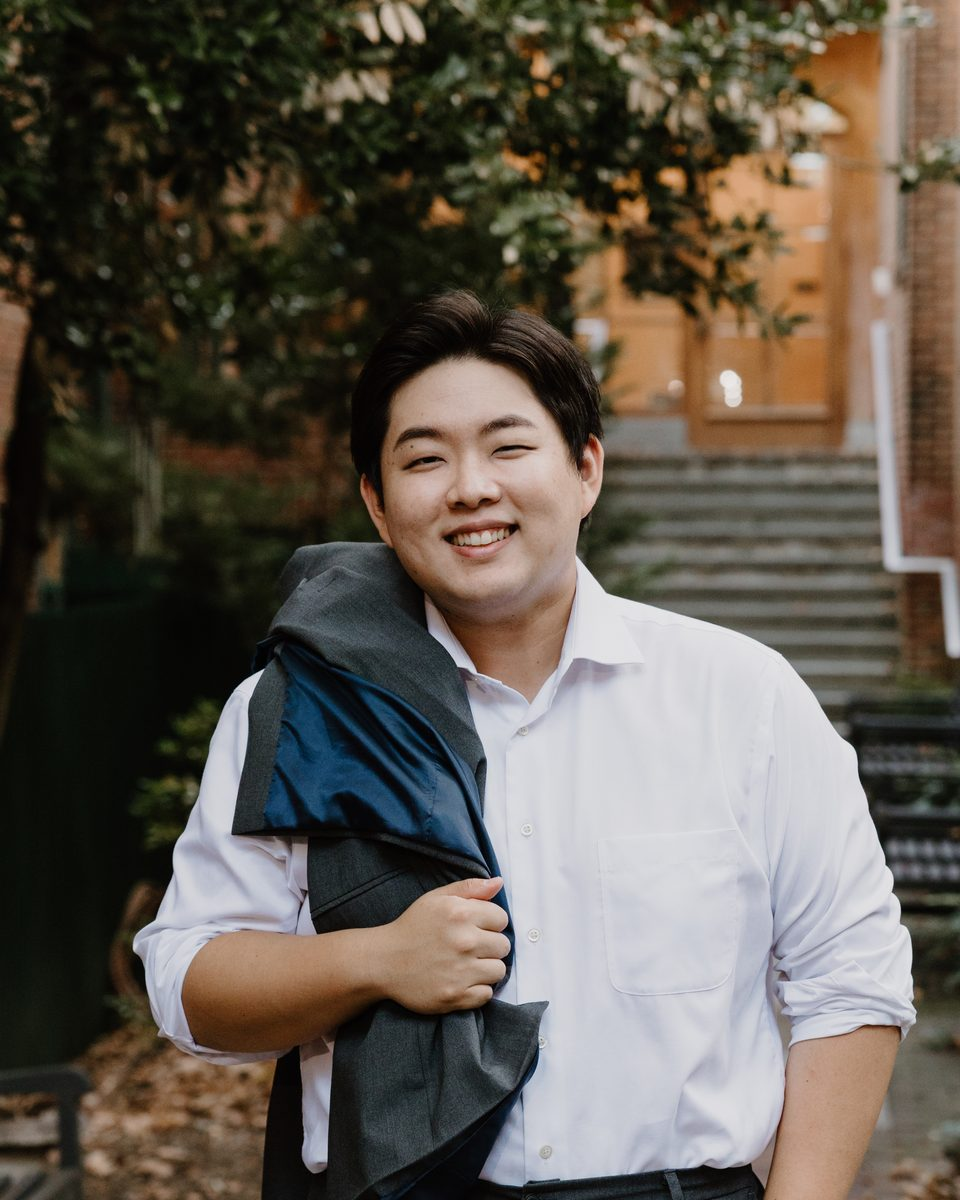
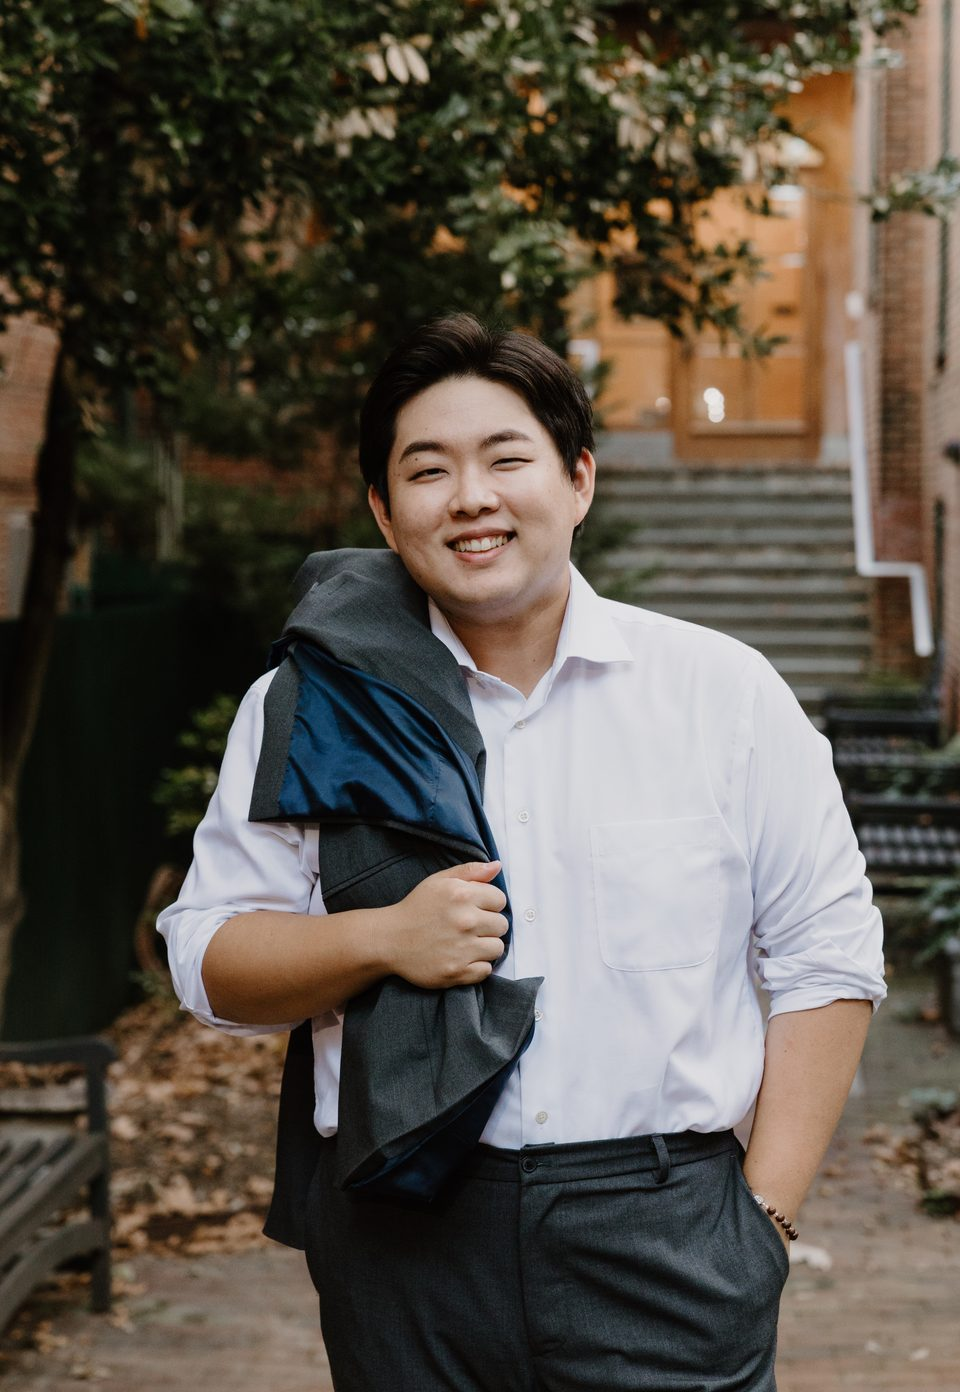
About: title on top, larger photo beside bio with matching height

diff --git a/css/style.css b/css/style.css
@@ -330,12 +330,13 @@ h3 { font-size: .72rem; font-weight: 500; letter-spacing: .25em; text-transform:
 .media-more[hidden] { display: none; }
 
 /* ── ABOUT: 프로필 사진 자동 넘김 + 글 ─────── */
-.about-wrap { max-width: 1040px; display: grid; grid-template-columns: minmax(0, 5fr) minmax(0, 7fr); gap: 0 64px; }
+.about-wrap { max-width: 1000px; display: grid; grid-template-columns: minmax(0, 1fr) minmax(0, 1fr); gap: 0 56px; }
+.about-title { grid-column: 1 / -1; }
 .about-text .bio p:last-child { margin-bottom: 0; }
-.about-text h2 { margin-bottom: 40px; }
 .about-wrap .training { grid-column: 1 / -1; }
-.about-slides { position: relative; align-self: start; aspect-ratio: 4 / 5; overflow: hidden; background: var(--gray-1); }
-.about-slides img { position: absolute; inset: 0; width: 100%; height: 100%; object-fit: cover; opacity: 0; transform: scale(1.06);
+/* 데스크톱: 사진 높이 = 글 높이 */
+.about-slides { position: relative; min-height: 520px; overflow: hidden; background: var(--gray-1); }
+.about-slides img { position: absolute; inset: 0; width: 100%; height: 100%; object-fit: cover; object-position: 50% 30%; opacity: 0; transform: scale(1.06);
   transition: opacity 1.6s ease, transform 7s ease-out; }
 .about-slides img.on { opacity: 1; transform: scale(1); }
 .about-dots { position: absolute; left: 0; right: 0; bottom: 14px; display: flex; justify-content: center; gap: 6px; z-index: 1; }
@@ -343,8 +344,8 @@ h3 { font-size: .72rem; font-weight: 500; letter-spacing: .25em; text-transform:
 .about-dots button.on { width: 28px; background: #fff; }
 .about-dots button::before { content: ""; display: block; height: 16px; margin-top: -7px; }  /* 누르기 쉽게 */
 @media (prefers-reduced-motion: reduce) { .about-slides img { transform: none; transition: opacity .8s ease; } }
-@media (max-width: 820px) {
+@media (max-width: 960px) {
   .about-wrap { grid-template-columns: 1fr; }
-  .about-slides { width: 100%; max-width: 440px; margin: 0 auto 48px; }
+  .about-slides { width: 100%; max-width: 480px; min-height: 0; aspect-ratio: 4 / 5; margin: 0 auto 48px; }
 }
 }

diff --git a/index.html b/index.html
@@ -24,7 +24,7 @@
   <script>
     /* 최신 버전 확인: 브라우저에 저장된 예전 페이지면 자동으로 새로 불러옴 (주소는 그대로 유지) */
     (function () {
-      var PAGE_VERSION = "20261002001745";
+      var PAGE_VERSION = "20261002004129";
       try {
         var u = new URL(location.href);
         if (u.searchParams.has("_v")) { u.searchParams.delete("_v"); history.replaceState(null, "", u.pathname + (u.search || "") + u.hash); }
@@ -37,7 +37,7 @@
       } catch (e) {}
     })();
   </script>
-  <link rel="stylesheet" href="css/style.css?v=20261002001745">
+  <link rel="stylesheet" href="css/style.css?v=20261002004129">
 </head>
 <body>
 
@@ -72,13 +72,15 @@
   <!-- ABOUT -->
   <section class="section" id="about">
     <div class="container about-wrap">
+      <div class="about-title">
+        <p class="eyebrow">Biography</p>
+        <h2>About</h2>
+      </div>
       <!-- 프로필 사진 자동 넘김 (사진 목록은 content/site.json 의 profile) -->
       <figure class="about-slides" id="aboutSlides">
         <img class="on" src="images/profile/profile-1.jpg" alt="Junseok Hwang">
       </figure>
       <div class="about-text">
-      <p class="eyebrow">Biography</p>
-      <h2>About</h2>
       <div class="bio">
         <p>Korean baritone <strong>Junseok (Jason) Hwang</strong> is a Resident Artist at the <strong>Academy of Vocal Arts</strong> in Philadelphia and a 2026 <em>Renée Fleming Artist</em>.</p>
         <p>A 2023 graduate of <strong>The Juilliard School</strong>, where he studied with William Burden, he sang Nick Bottom in <em>A Midsummer Night's Dream</em>, Il Marito in <em>Amelia al Ballo</em> and Spinelloccio in <em>Gianni Schicchi</em>. He has also sung Papageno in <em>Die Zauberflöte</em> at the Hawaii Performing Arts Festival.</p>
@@ -208,6 +210,6 @@
     <button class="modal-nav next" aria-label="Next">&#8250;</button>
   </div>
 
-  <script src="js/main.js?v=20261002001745"></script>
+  <script src="js/main.js?v=20261002004129"></script>
 </body>
 </html>
